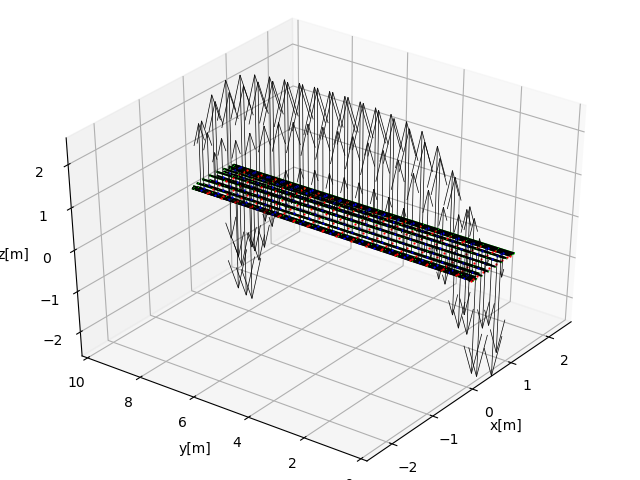
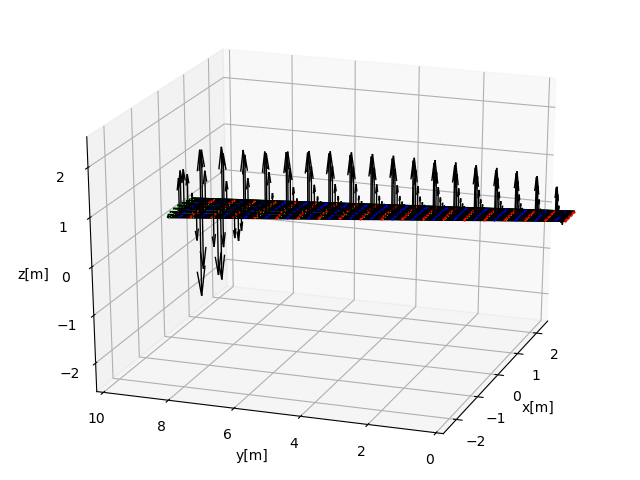
Geometry routine is updated.

diff --git a/vpm_airfoil.py b/vpm_airfoil.py
@@ -108,30 +108,48 @@ class WingSection(object):
 
         offset = -(leading_edge[:,1]-leading_edge[-1,1])*tan_theta
 
-        for i_chord_iter in range(num_chord_max_iter):
+        for i_chord_iter in range(num_chord_max_iter*2):
             self.airfoil[i_chord_iter,:,0]+=offset
 
+        for i_chord_iter in range(num_chord_max_iter):
+            self.camber[i_chord_iter,:,0]+=offset
+
     def set_dihedral_angle(self, dihedral):
-        num_chord_max_iter = numpy.shape(self.airfoil)[0]
-        num_span_max_iter = numpy.shape(self.airfoil)[1]
+        num_chord_max_iter = self.num_chord_max_iter
+        num_span_max_iter = self.num_span_max_iter
 
         leading_edge = self.airfoil[0]
         tan_theta = numpy.tan(DBL_D2R*dihedral)
 
         offset = -(leading_edge[:,1]-leading_edge[-1,1])*tan_theta
 
-        for i_chord_iter in range(num_chord_max_iter):
-            self.airfoil[i_chord_iter,:,0]+=offset
+        for i_chord_iter in range(num_chord_max_iter*2):
+            self.airfoil[i_chord_iter,:,2]+=offset
 
-    def set_taper_ratio(self):
-        num_chord_max_iter = numpy.shape(self.airfoil)[0]
-        num_span_max_iter = numpy.shape(self.airfoil)[1]
+        for i_chord_iter in range(num_chord_max_iter):
+            self.camber[i_chord_iter, :, 2]+=offset
+
+    def set_taper_ratio(self,taper_ratio):
+        num_chord_max_iter = self.num_chord_max_iter
+        num_span_max_iter = self.num_span_max_iter
 
         trailing_edge = self.airfoil[-1]
         leading_edge = self.airfoil[0]
         quater_chord = 0.25*trailing_edge+0.75*leading_edge
+        x = quater_chord[:,1]
 
+        span = x[-1] - x[0]
+        taper_steps = numpy.interp(x.real, numpy.array([0.0,span]).real,numpy.array([taper_ratio,1.0]).real)
 
+        for i_chord_iter in range(num_chord_max_iter*2):
+            for i_z in range(3):
+                self.airfoil[i_chord_iter,:,i_z] = (self.airfoil[i_chord_iter,:,i_z]-quater_chord[:,i_z])*\
+                                                   taper_steps+quater_chord[:,i_z]
+        #todo 外形以外のテーパ
+        for i_chord_iter in range(num_chord_max_iter):
+            for i_z in range(3):
+                self.camber[i_chord_iter,:,i_z] = (self.camber[i_chord_iter,:,i_z]-quater_chord[:,i_z])*\
+                                                  taper_steps+quater_chord[:,i_z]
 
     def set_chord_scale(self, dst):
         trailing_edge = self.airfoil[-1]
@@ -140,9 +158,14 @@ class WingSection(object):
 
         num_span_max_iter = numpy.shape(self.airfoil)[1]
 
-        for i_span_iter in range(num_span_max_iter):
+        for i_span_iter in range(num_span_max_iter*2):
             self.airfoil[:,i_span_iter,0] \
                 = (self.airfoil[:,i_span_iter,0]-quater_chord[i_span_iter,0]
+                   *dst[i_span_iter]+quater_chord[i_span_iter,0])
+
+        for i_span_iter in range(num_span_max_iter):
+            self.camber[:,i_span_iter,0] \
+                = (self.camber[:,i_span_iter,0]-quater_chord[i_span_iter,0]
                    *dst[i_span_iter]+quater_chord[i_span_iter,0])
 
     def set_span_scale(self, dst):
@@ -154,4 +177,4 @@ class WingSection(object):
         fixed_span = quater_chord[:,1]/temp
 
         self.airfoil[:,:,1] = fixed_span*dst
-
+        self.camber[:,:,1] = fixed_span*dst

diff --git a/cmn_plot.py b/cmn_plot.py
@@ -14,10 +14,6 @@ def show2d(bodies, c_pts):
     pyplot.plot(bodies[:, 0, 0], bodies[:, 0, 2], ".", color="red", ms=5, mew=5)
     pyplot.plot(c_pts[:, 0, 0], c_pts[:, 0, 2], ".", color="green", ms=5, mew=0.5)
     pyplot.plot(bodies[:, 1, 0], bodies[:, 1, 2], ".", color="blue", ms=5, mew=5)
-        #for i in range(num_y-1):
-        #    pyplot.plot(annex.c_pts[:, i, 0], annex.c_pts[:, i, 2], "-", color="orange", ms=5, mew=0.5)
-        #    pyplot.plot(body.mesh[:, i, 0], body.mesh[:, i, 2], ".", color="red", ms=5, mew=5)
-        #    pyplot.plot(annex.c_pts[:, i, 0], annex.c_pts[:, i, 2], ".", color="green", ms=5, mew=0.5)
     pyplot.axes().set_aspect("equal", "datalim")
     pyplot.grid()
     pyplot.show()
@@ -29,7 +25,7 @@ def show(body, boundary, collocation, force, el=25.0, az=-160.0):
     num_y = 20
 
     for i in range(num_x):
-        ax3d.plot(body[i, :, 0], body[i, :, 1], body[i, :, 2], '-', color='lime', ms=0.5, mew=0.5)
+        ax3d.plot(body[i, :, 0], body[i, :, 1], body[i, :, 2], '-', color='lime', ms=1.5, mew=0.5)
 
     for i in range(num_y):
         ax3d.plot(body[i, :, 0], body[i, :, 1], body[i, :, 2], '-', color='black', ms=0.5, mew=0.5)
@@ -41,7 +37,7 @@ def show(body, boundary, collocation, force, el=25.0, az=-160.0):
     for i_x in range(len(collocation[:, 0, 0])):
         for i_y in range(len(collocation[0, :, 0])):
             ax3d.quiver(collocation[i_x, i_y, 0], collocation[i_x, i_y, 1], collocation[i_x, i_y, 2],
-                        0., 0., force[i_x, i_y, :]*hstack((0, 0, 0.0005)), color='k', linewidth=0.5)
+                        0., 0., force[i_x, i_y, :]*hstack((0, 0, 0.002)), color='k', linewidth=1.0)
 
     ax3d.set_zlim3d(-2.5, 2.5)
     ax3d.set_xlim3d(-2.5, 2.5)

diff --git a/main.py b/main.py
@@ -20,23 +20,23 @@ def problem():
     max_camber = 0.02
     location_max_camber = 0.4
     thickness = 0.12
-    vinf = 0.3
-    alpha = 1.0
+    mach = 0.1
+    alpha = 5.0
 
-    sweep_angle = 20.0*DBL_D2R
-    dihedral_angle = 3.0*DBL_D2R
+    sweep_angle = 20.0
+    dihedral_angle = -5.0
     taper_ratio = 0.5
 
     v0 = 340.294
-    vinf = v0*vinf
+    vinf = v0*mach
     wingsection = vpm_airfoil.WingSection(num_x,num_y,span,chord,max_camber,location_max_camber,thickness)
     wingsection.assemble()
     wingsection.set_sweep_angle(sweep_angle)
     wingsection.set_dihedral_angle(dihedral_angle)
+    wingsection.set_taper_ratio(taper_ratio)
 
     mesh_airfoil = wingsection.airfoil
     mesh_camber = wingsection.camber
-    print(mesh_airfoil)
     aerodynamics = vpm_aerodynamics.Aerodynamics(mesh_airfoil,mesh_camber)
     matrix_part, matrix_aic, boundary_pts, collocation_pts = aerodynamics.gen_aic_matrix(alpha, num_x, num_y)
     matrix_rhs = aerodynamics.gen_rhs_vector(alpha, vinf)
@@ -47,7 +47,7 @@ def problem():
 
 def main():
     force, airfoil, boundary_pts, collocation_pts = problem()
-    #cmn_plot.show_alt(airfoil,collocation_pts,boundary_pts,force)
+    print(force)
     cmn_plot.show(airfoil,boundary_pts,collocation_pts,force)
     cmn_plot.show2d(airfoil,collocation_pts)
 if __name__ == "__main__":
